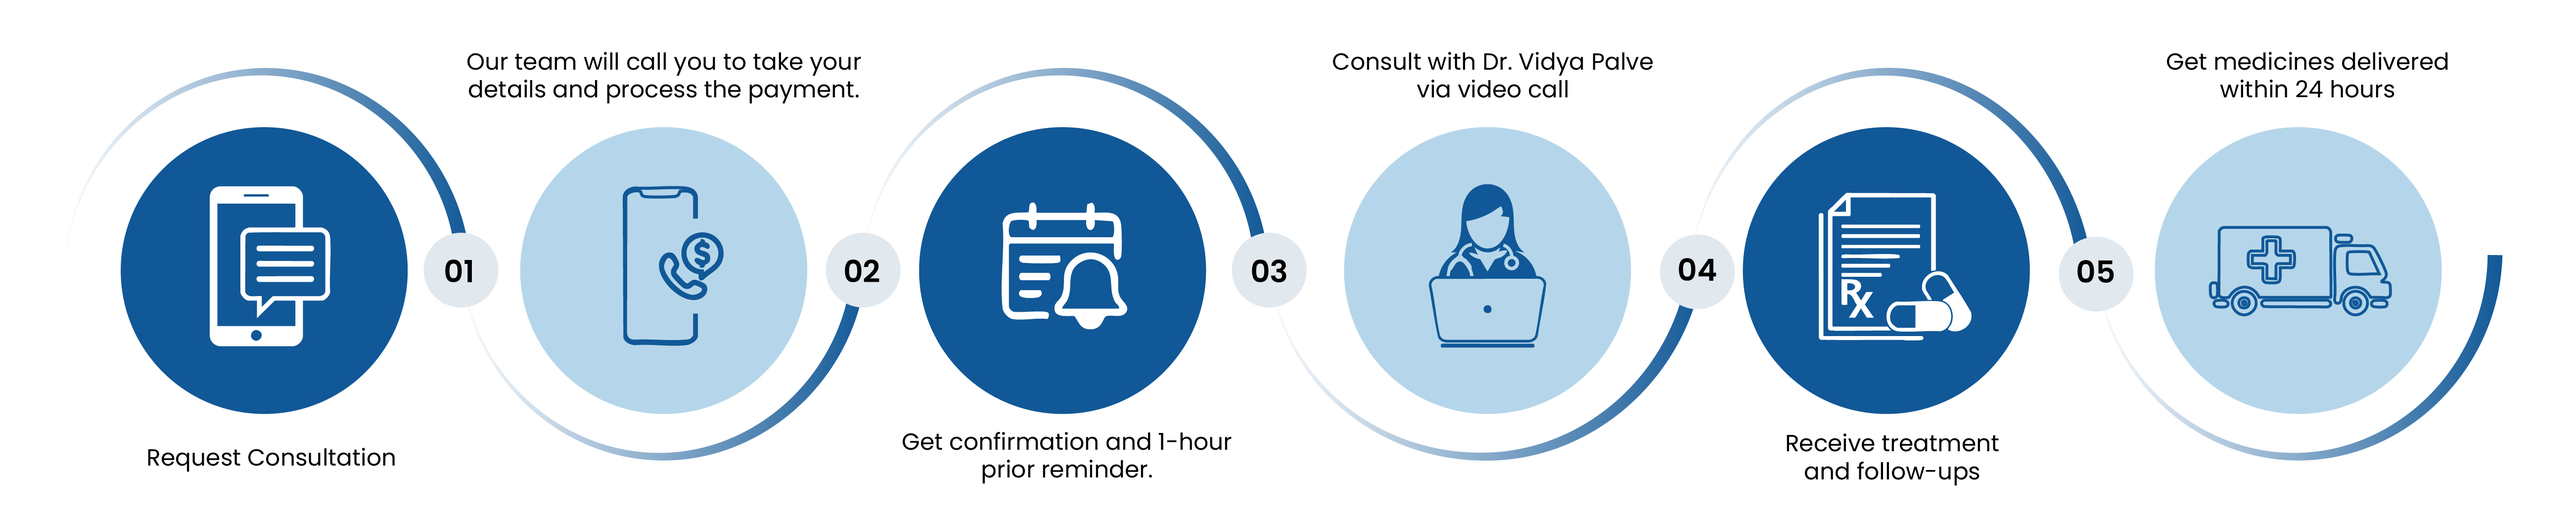
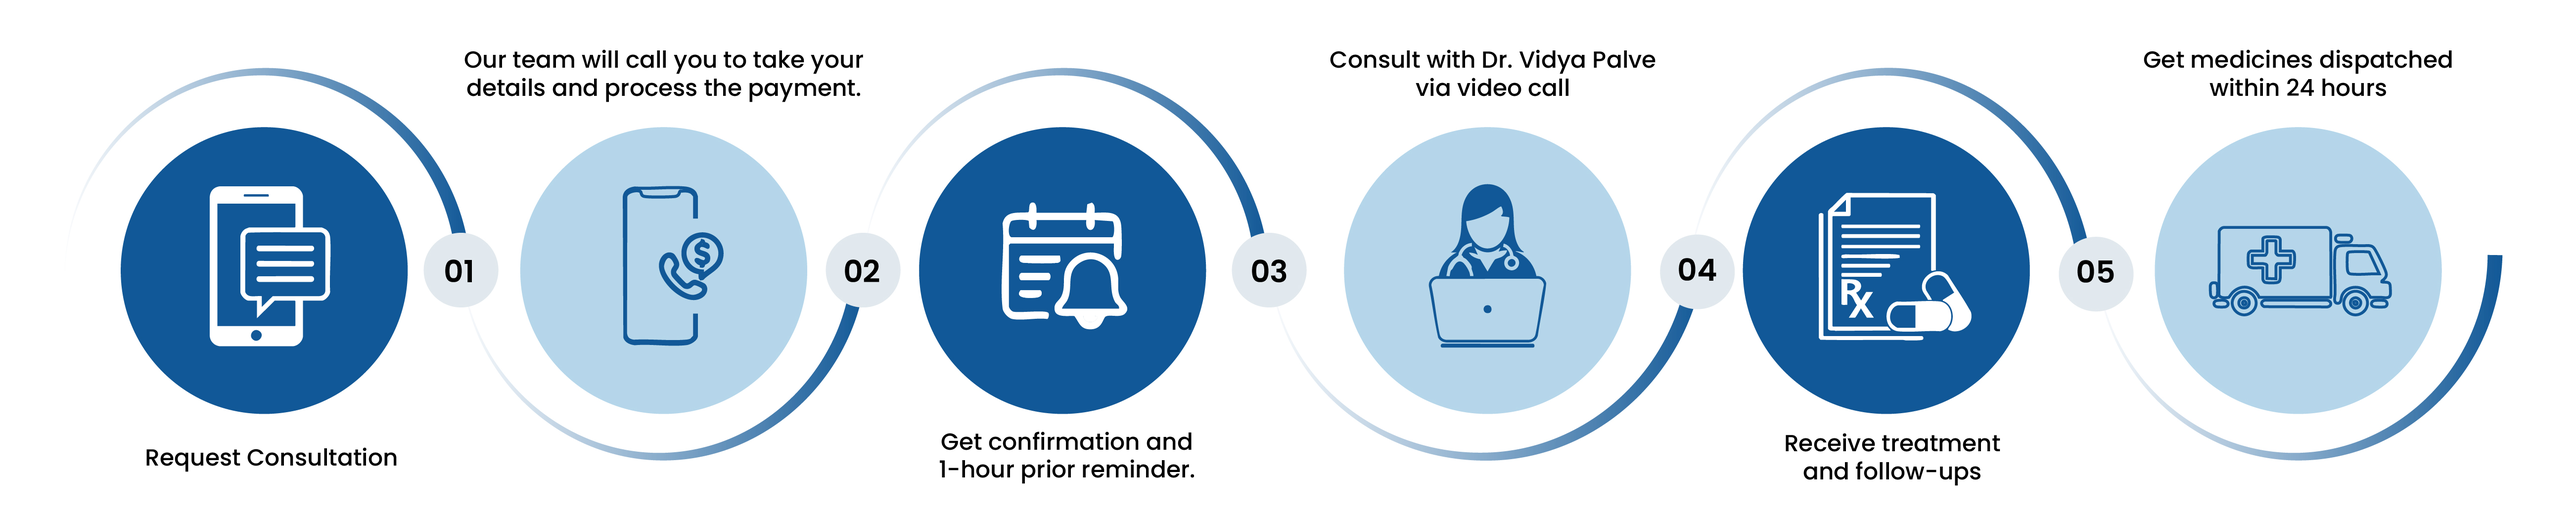
new section add

diff --git a/src/pages/doctors/drvidya/components/YouTubeShortsSection.tsx b/src/pages/doctors/drvidya/components/YouTubeShortsSection.tsx
@@ -1,0 +1,71 @@
+import { motion } from "framer-motion"
+import { Play } from "lucide-react"
+
+const shorts = [
+  {
+    id: "6o4GDnctgwA",
+    title: "Short 1",
+  },
+  {
+    id: "mwmwft_rwow",
+    title: "Short 2",
+  },
+  {
+    id: "4iJxwDO8F_0",
+    title: "Short 3",
+  },
+]
+
+const YouTubeShortsSection = () => {
+  return (
+    <section className="bg-white py-16">
+      <div className="max-w-7xl mx-auto px-6">
+
+        {/* Header */}
+        <motion.div
+          initial={{ opacity: 0, y: 20 }}
+          whileInView={{ opacity: 1, y: 0 }}
+          viewport={{ once: true }}
+          transition={{ duration: 0.6 }}
+          className="text-center mb-12"
+        >
+          <span className="inline-flex items-center gap-2 mb-4 rounded-full bg-[#0F4C81]/10 px-5 py-2 text-sm font-semibold text-[#0F4C81]">
+            <Play size={14} fill="currentColor" />
+            Watch Our Shorts
+          </span>
+          <h2 className="text-3xl md:text-4xl font-extrabold text-gray-900">
+            Health Tips in <span className="text-[#0F4C81]">60 Seconds</span>
+          </h2>
+        </motion.div>
+
+        {/* Cards Grid */}
+        <div className="grid grid-cols-1 sm:grid-cols-3 gap-6">
+          {shorts.map((short, index) => (
+            <motion.div
+              key={short.id}
+              initial={{ opacity: 0, y: 30 }}
+              whileInView={{ opacity: 1, y: 0 }}
+              viewport={{ once: true }}
+              transition={{ duration: 0.6, delay: index * 0.15 }}
+              className="rounded-2xl overflow-hidden border border-gray-200 shadow-sm hover:shadow-lg transition-shadow bg-white"
+            >
+              {/* Portrait video embed — 9:16 aspect ratio */}
+              <div className="relative w-full" style={{ paddingBottom: "177.78%" }}>
+                <iframe
+                  src={`https://www.youtube.com/embed/${short.id}?rel=0&modestbranding=1`}
+                  title={short.title}
+                  allow="accelerometer; autoplay; clipboard-write; encrypted-media; gyroscope; picture-in-picture"
+                  allowFullScreen
+                  className="absolute inset-0 w-full h-full border-0"
+                />
+              </div>
+            </motion.div>
+          ))}
+        </div>
+
+      </div>
+    </section>
+  )
+}
+
+export default YouTubeShortsSection

diff --git a/src/pages/doctors/drvidya/DrVidyaPalve.tsx b/src/pages/doctors/drvidya/DrVidyaPalve.tsx
@@ -13,6 +13,7 @@ import FaqSection from './components/FaqSection'
 import DoctorLeadForm from '../../../layout/DoctorLeadForm'
 import HomeopathyTestimonials from './components/HomeopathyTestimonials'
 import VideoSectionV2 from "./components/VideoSectionv2"
+import YouTubeShortsSection from "./components/YouTubeShortsSection"
 
 const DrVidyaPalve = () => {
 
@@ -74,6 +75,7 @@ const DrVidyaPalve = () => {
       <WhyChooseUsSection />
       <InternationalPatientsSection />
       <TreatmentProcessSection />
+      <YouTubeShortsSection />
       <HomeopathyTestimonials />
       <FaqSection />
       <DoctorLeadForm />

diff --git a/src/pages/doctors/drvidya/components/InternationalPatientsSection.tsx b/src/pages/doctors/drvidya/components/InternationalPatientsSection.tsx
@@ -13,7 +13,7 @@ const countries = [
 
 // ✅ Just update these two paths with your actual images
 const STEPS_IMAGE_DESKTOP = "/Internationaldesktop.jpg"   // shown on md+ screens
-const STEPS_IMAGE_MOBILE  = "/Internationalmobile.jpg"    // shown on small screens
+const STEPS_IMAGE_MOBILE  = "/Internationmobile.jpg"    // shown on small screens
 
 const InternationalPatientsSection = () => {
   return (
